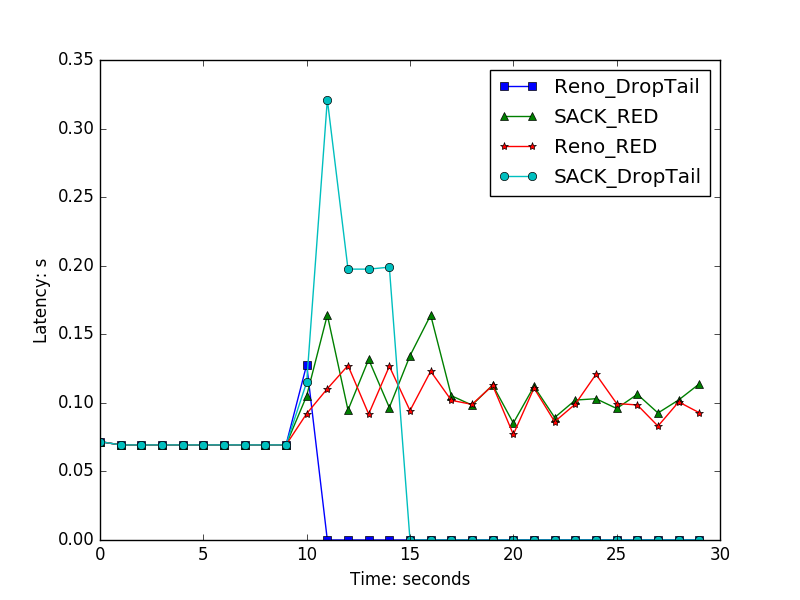
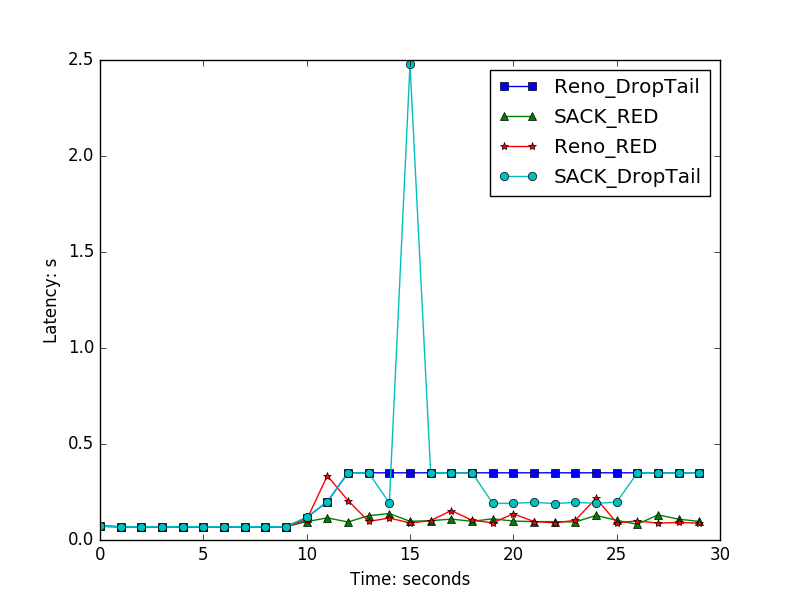
exp3 the right way

diff --git a/p3/exp3/run_exp3.py b/p3/exp3/run_exp3.py
@@ -40,8 +40,8 @@ def statistic(fname, duration):
             window.pop(seq)
     for i in range(duration):
         thpt.append(recv[i]*1040*8.0/1024)
-        latency.append(total_rtt[i]*1.0/recv[i] if recv[i] != 0 else 0)
-        drop.append((send[i]-recv[i])*1.0/send[i]*100 if send[i] != 0 else 0)
+        latency.append(total_rtt[i]*1.0/recv[i] if recv[i] != 0 else 0.35)
+        drop.append((send[i]-recv[i])*1.0/send[i]*100 if send[i] != 0 else 1)
     return thpt, latency, drop
 
 def runExp1(duration):
